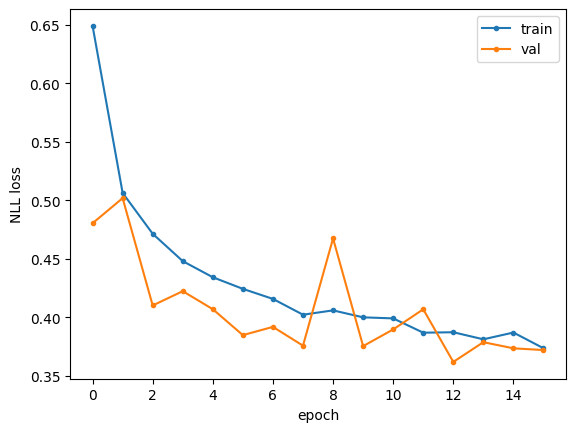
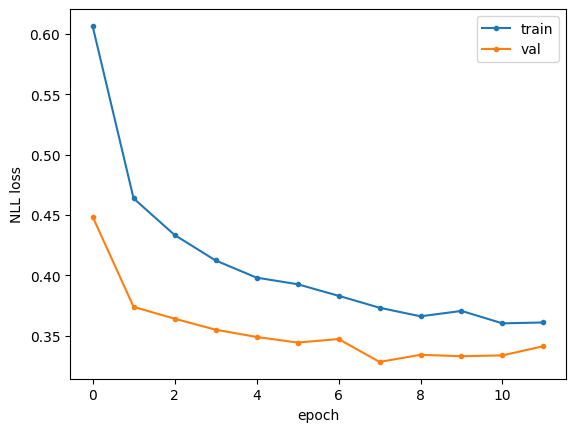
Drop last (non-full) batch

diff --git a/datamodule.py b/datamodule.py
@@ -12,7 +12,7 @@ class FashionMNISTDataModule(pl.LightningDataModule):
         super().__init__()
         self.data_dir = data_dir
         self.transform = transforms.Compose([transforms.ToTensor(),
-                                             transforms.Normalize((0.5,), (0.5,))])
+                                             transforms.Normalize((0.1307,), (0.3081,))])
         self.batch_size = batch_size
         self.n_workers = 3
         self.train_val_split = train_val_split
@@ -36,13 +36,13 @@ class FashionMNISTDataModule(pl.LightningDataModule):
             self.mnist_predict = FashionMNIST(self.data_dir, train=False, transform=self.transform)
 
     def train_dataloader(self):
-        return DataLoader(self.mnist_train, batch_size=self.batch_size, num_workers=self.n_workers)
+        return DataLoader(self.mnist_train, batch_size=self.batch_size, num_workers=self.n_workers, drop_last=True)
 
     def val_dataloader(self):
-        return DataLoader(self.mnist_val, batch_size=self.batch_size, num_workers=self.n_workers)
+        return DataLoader(self.mnist_val, batch_size=self.batch_size, num_workers=self.n_workers, drop_last=True)
 
     def test_dataloader(self):
-        return DataLoader(self.mnist_test, batch_size=self.batch_size, num_workers=self.n_workers)
+        return DataLoader(self.mnist_test, batch_size=self.batch_size, num_workers=self.n_workers, drop_last=True)
 
     def predict_dataloader(self):
-        return DataLoader(self.mnist_predict, batch_size=32, num_workers=self.n_workers)
+        return DataLoader(self.mnist_predict, batch_size=self.batch_size, num_workers=self.n_workers, drop_last=True)

diff --git a/model.py b/model.py
@@ -59,8 +59,7 @@ class FCNModule(pl.LightningModule):
     def validation_epoch_end(self, outputs):
         losses = sum([output["val_loss"].detach().item() for output in outputs])
         self.losses_history['val'].append(losses / len(outputs))
-        # Discard last batch accuracy since that batch has fewer items
-        accuracies = torch.stack([outputs[i]["batch_acc"] for i in range(len(outputs) - 1)])
+        accuracies = torch.stack([output["batch_acc"] for output in outputs])
         print(' Validation Accuracy %0.6f' % torch.mean(accuracies).item())
 
     def test_step(self, batch, batch_idx):
@@ -72,8 +71,7 @@ class FCNModule(pl.LightningModule):
         return {"test_loss": loss, "batch_acc": acc}
 
     def test_epoch_end(self, outputs):
-        # Discard the last batch accuracy since that batch has fewer items
-        accuracies = torch.stack([outputs[i]["batch_acc"] for i in range(len(outputs) - 1)])
+        accuracies = torch.stack([output["batch_acc"] for output in outputs])
         self.log('TestAcc', torch.mean(accuracies).item())
 
     def configure_optimizers(self):

diff --git a/train.py b/train.py
@@ -1,5 +1,4 @@
 import os
-
 import hydra
 from omegaconf import OmegaConf, DictConfig
 from pytorch_lightning.callbacks import EarlyStopping
@@ -23,7 +22,7 @@ def my_app(cfg: DictConfig):
     fcn = FCNModule(cfg.opt)
 
     # train model
-    callback = EarlyStopping(monitor="val_loss", mode="min")
+    callback = EarlyStopping(monitor="val_loss", mode="min", patience=4)
     trainer = pl.Trainer(max_epochs=cfg.params.epochs, accelerator='gpu', callbacks=[callback])
 
     trainer.fit(model=fcn, datamodule=data)
